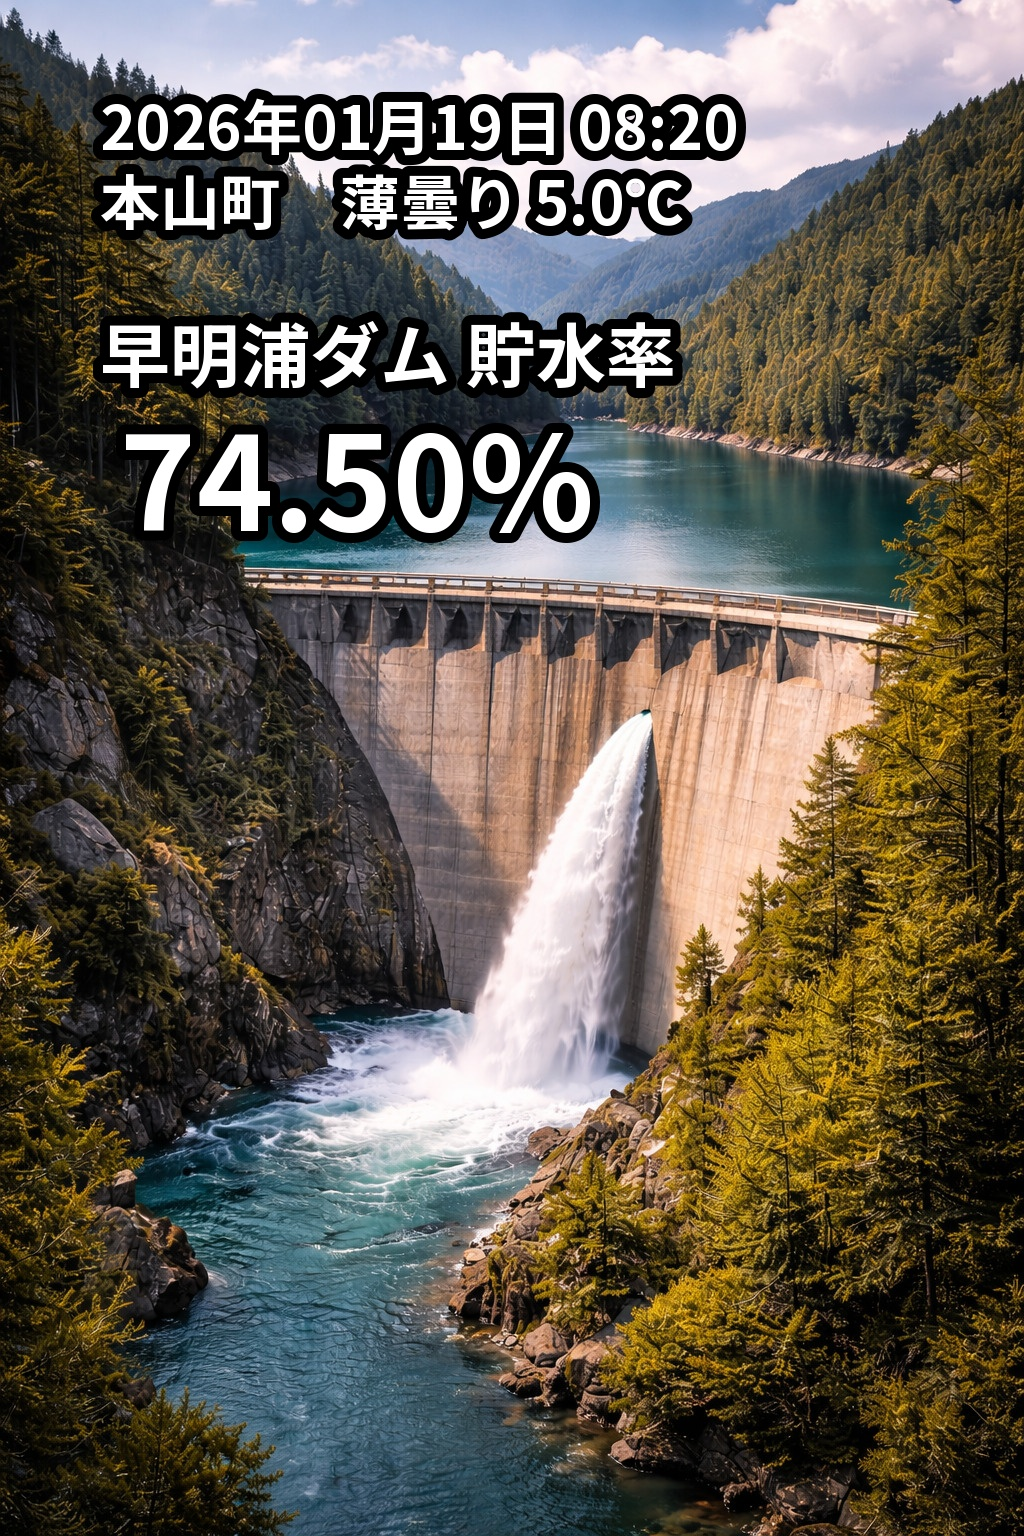
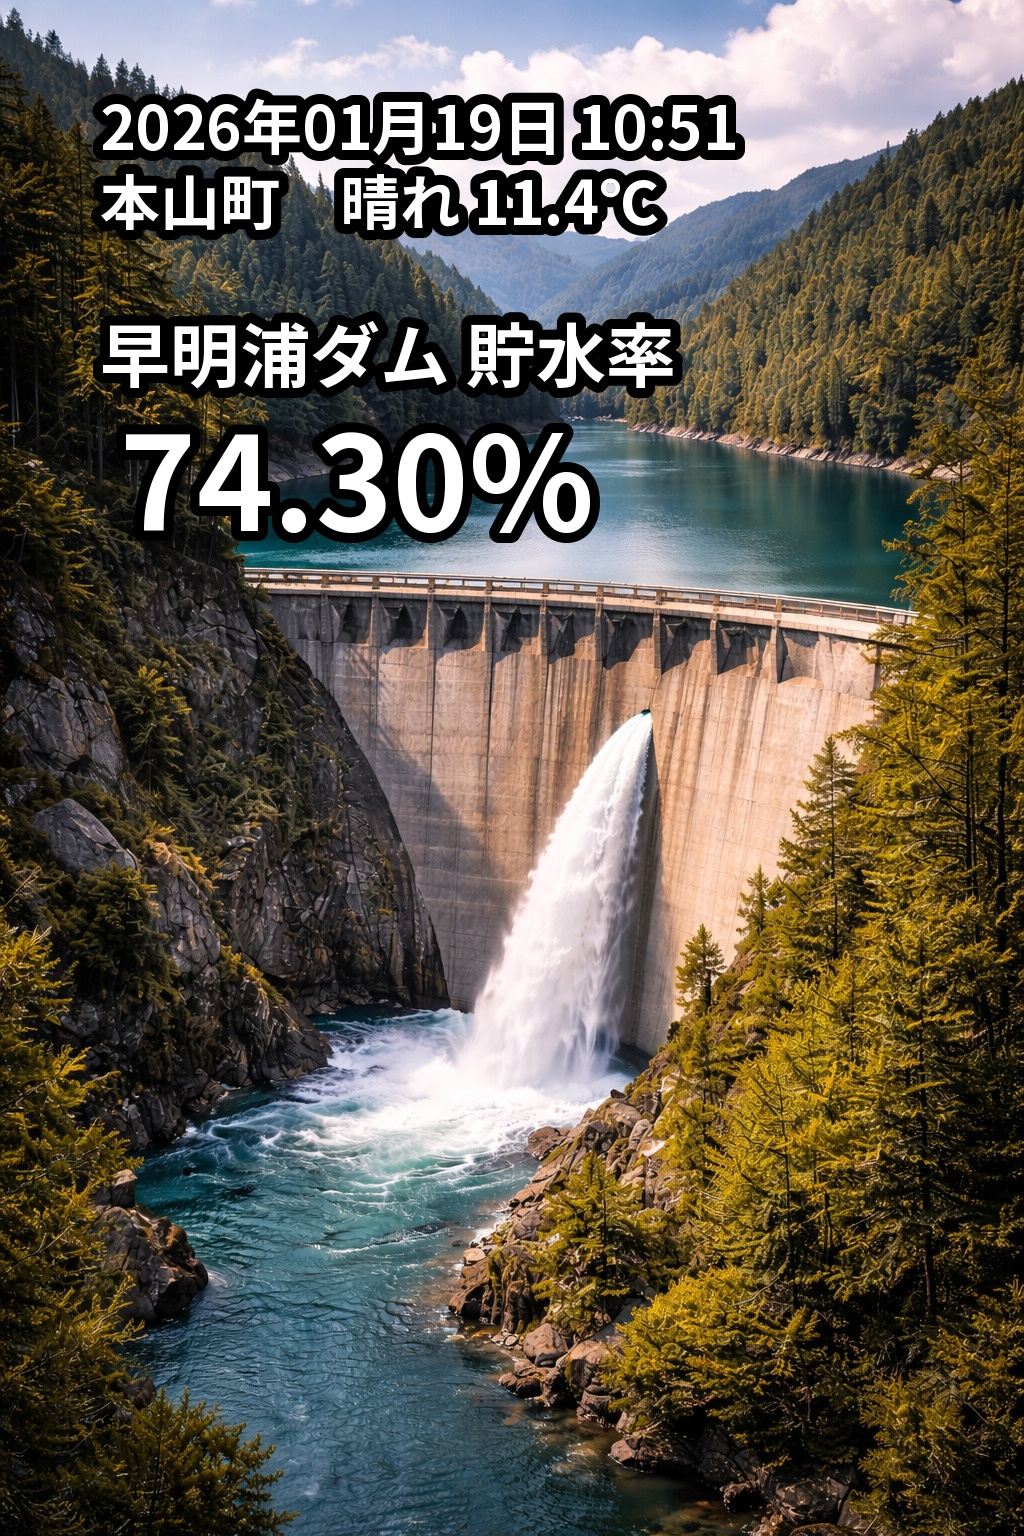
Update daily image

Changed region(s): [[0.3125, 0.0625, 0.75, 0.1562], [0.3125, 0.2812, 0.375, 0.3438]]

diff --git a/index.html b/index.html
@@ -10,6 +10,6 @@
   </style>
 </head>
 <body>
-  <img src="result.jpg?v=202601190820" alt="早明浦ダム 貯水率" />
+  <img src="result.jpg?v=202601191051" alt="早明浦ダム 貯水率" />
 </body>
 </html>
